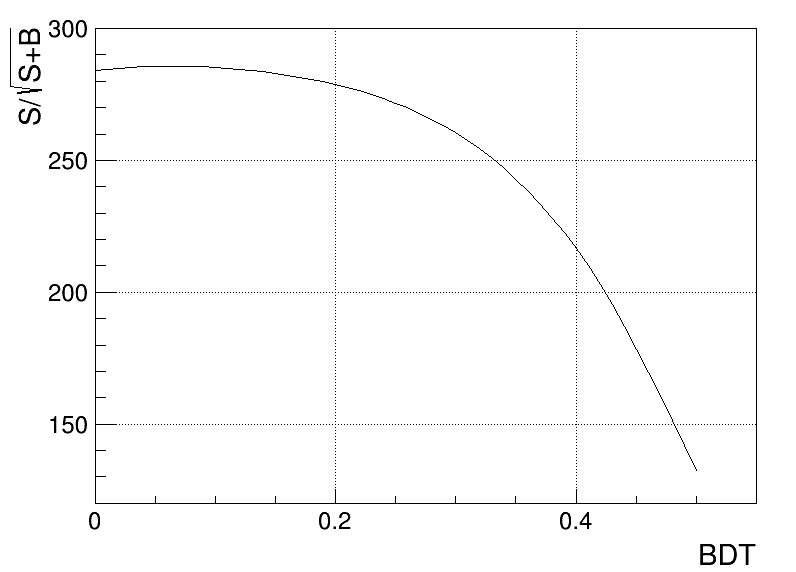
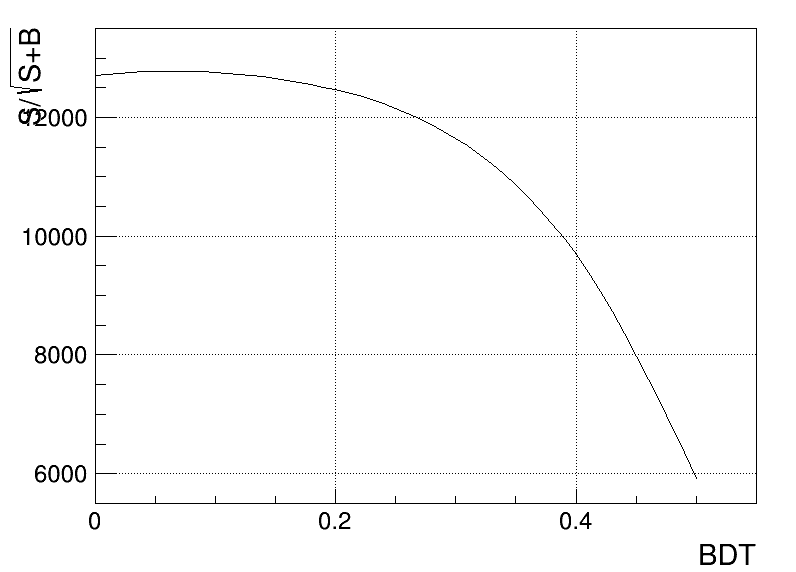
[+] update

diff --git a/Perform/plotMCsignificance.C b/Perform/plotMCsignificance.C
@@ -25,8 +25,8 @@ void plotMCsignificance(string s = "LM")
         TH1D * hs = (TH1D*) f.Get("hmass_Signal");
         TH1D * hb = (TH1D*) f.Get("hmass_Bckgnd");
 
-        double S = hs->Integral(hs->FindBin(massLow), hs->FindBin(massHigh));
-        double B = hb->Integral(hb->FindBin(massLow), hb->FindBin(massHigh));
+        double S = hs->Integral(hs->FindBin(massLow), hs->FindBin(massHigh)) / hs->GetBinWidth(1);
+        double B = hb->Integral(hb->FindBin(massLow), hb->FindBin(massHigh)) / hb->GetBinWidth(1);
 
         grSig->GetX()[i] = i*0.01;
         grSig->GetY()[i] = S/sqrt(S+B);
@@ -35,8 +35,8 @@ void plotMCsignificance(string s = "LM")
 
         hs = (TH1D*) f.Get("hmass_Signal_pTrkDCASigXY");
         hb = (TH1D*) f.Get("hmass_Bckgnd_pTrkDCASigXY");
-        S = hs->Integral(hs->FindBin(massLow), hs->FindBin(massHigh));
-        B = hb->Integral(hb->FindBin(massLow), hb->FindBin(massHigh));
+        S = hs->Integral(hs->FindBin(massLow), hs->FindBin(massHigh)) / hs->GetBinWidth(1);
+        B = hb->Integral(hb->FindBin(massLow), hb->FindBin(massHigh)) / hb->GetBinWidth(1);
         grSig_pTrkDCASigXY->GetX()[i] = i*0.01;
         grSig_pTrkDCASigXY->GetY()[i] = S/sqrt(S+B);
         grSB_pTrkDCASigXY->GetX()[i] = i*0.01;
@@ -44,8 +44,8 @@ void plotMCsignificance(string s = "LM")
 
         hs = (TH1D*) f.Get("hmass_Signal_nTrkDCASigXY");
         hb = (TH1D*) f.Get("hmass_Bckgnd_nTrkDCASigXY");
-        S = hs->Integral(hs->FindBin(massLow), hs->FindBin(massHigh));
-        B = hb->Integral(hb->FindBin(massLow), hb->FindBin(massHigh));
+        S = hs->Integral(hs->FindBin(massLow), hs->FindBin(massHigh)) / hs->GetBinWidth(1);
+        B = hb->Integral(hb->FindBin(massLow), hb->FindBin(massHigh)) / hb->GetBinWidth(1);
         grSig_nTrkDCASigXY->GetX()[i] = i*0.01;
         grSig_nTrkDCASigXY->GetY()[i] = S/sqrt(S+B);
         grSB_nTrkDCASigXY->GetX()[i] = i*0.01;
@@ -53,8 +53,8 @@ void plotMCsignificance(string s = "LM")
 
         hs = (TH1D*) f.Get("hmass_Signal_pTrkDCASigZ");
         hb = (TH1D*) f.Get("hmass_Bckgnd_pTrkDCASigZ");
-        S = hs->Integral(hs->FindBin(massLow), hs->FindBin(massHigh));
-        B = hb->Integral(hb->FindBin(massLow), hb->FindBin(massHigh));
+        S = hs->Integral(hs->FindBin(massLow), hs->FindBin(massHigh)) / hs->GetBinWidth(1);
+        B = hb->Integral(hb->FindBin(massLow), hb->FindBin(massHigh)) / hb->GetBinWidth(1);
         grSig_pTrkDCASigZ->GetX()[i] = i*0.01;
         grSig_pTrkDCASigZ->GetY()[i] = S/sqrt(S+B);
         grSB_pTrkDCASigZ->GetX()[i] = i*0.01;
@@ -62,8 +62,8 @@ void plotMCsignificance(string s = "LM")
 
         hs = (TH1D*) f.Get("hmass_Signal_nTrkDCASigZ");
         hb = (TH1D*) f.Get("hmass_Bckgnd_nTrkDCASigZ");
-        S = hs->Integral(hs->FindBin(massLow), hs->FindBin(massHigh));
-        B = hb->Integral(hb->FindBin(massLow), hb->FindBin(massHigh));
+        S = hs->Integral(hs->FindBin(massLow), hs->FindBin(massHigh)) / hs->GetBinWidth(1);
+        B = hb->Integral(hb->FindBin(massLow), hb->FindBin(massHigh)) / hb->GetBinWidth(1);
         grSig_nTrkDCASigZ->GetX()[i] = i*0.01;
         grSig_nTrkDCASigZ->GetY()[i] = S/sqrt(S+B);
         grSB_nTrkDCASigZ->GetX()[i] = i*0.01;

diff --git a/Perform/plotSig.C b/Perform/plotSig.C
@@ -76,12 +76,12 @@ void plotSig(string s = "LM")
 
     c->SetGridx();
     TH1F *Graph_Graph01 = new TH1F("Graph_Graph01","Graph",100,0,0.55);
-    Graph_Graph01->SetMinimum(0.);
     if ( s == "KS" ) {
-        Graph_Graph01->SetMinimum(120.);
-        Graph_Graph01->SetMaximum(300.);
+        Graph_Graph01->SetMinimum(5500.);
+        Graph_Graph01->SetMaximum(13500.);
     } else {
-        Graph_Graph01->SetMaximum(70.);
+        Graph_Graph01->SetMinimum(100.);
+        Graph_Graph01->SetMaximum(3200.);
     }
     Graph_Graph01->SetDirectory(0);
     Graph_Graph01->SetStats(0);
